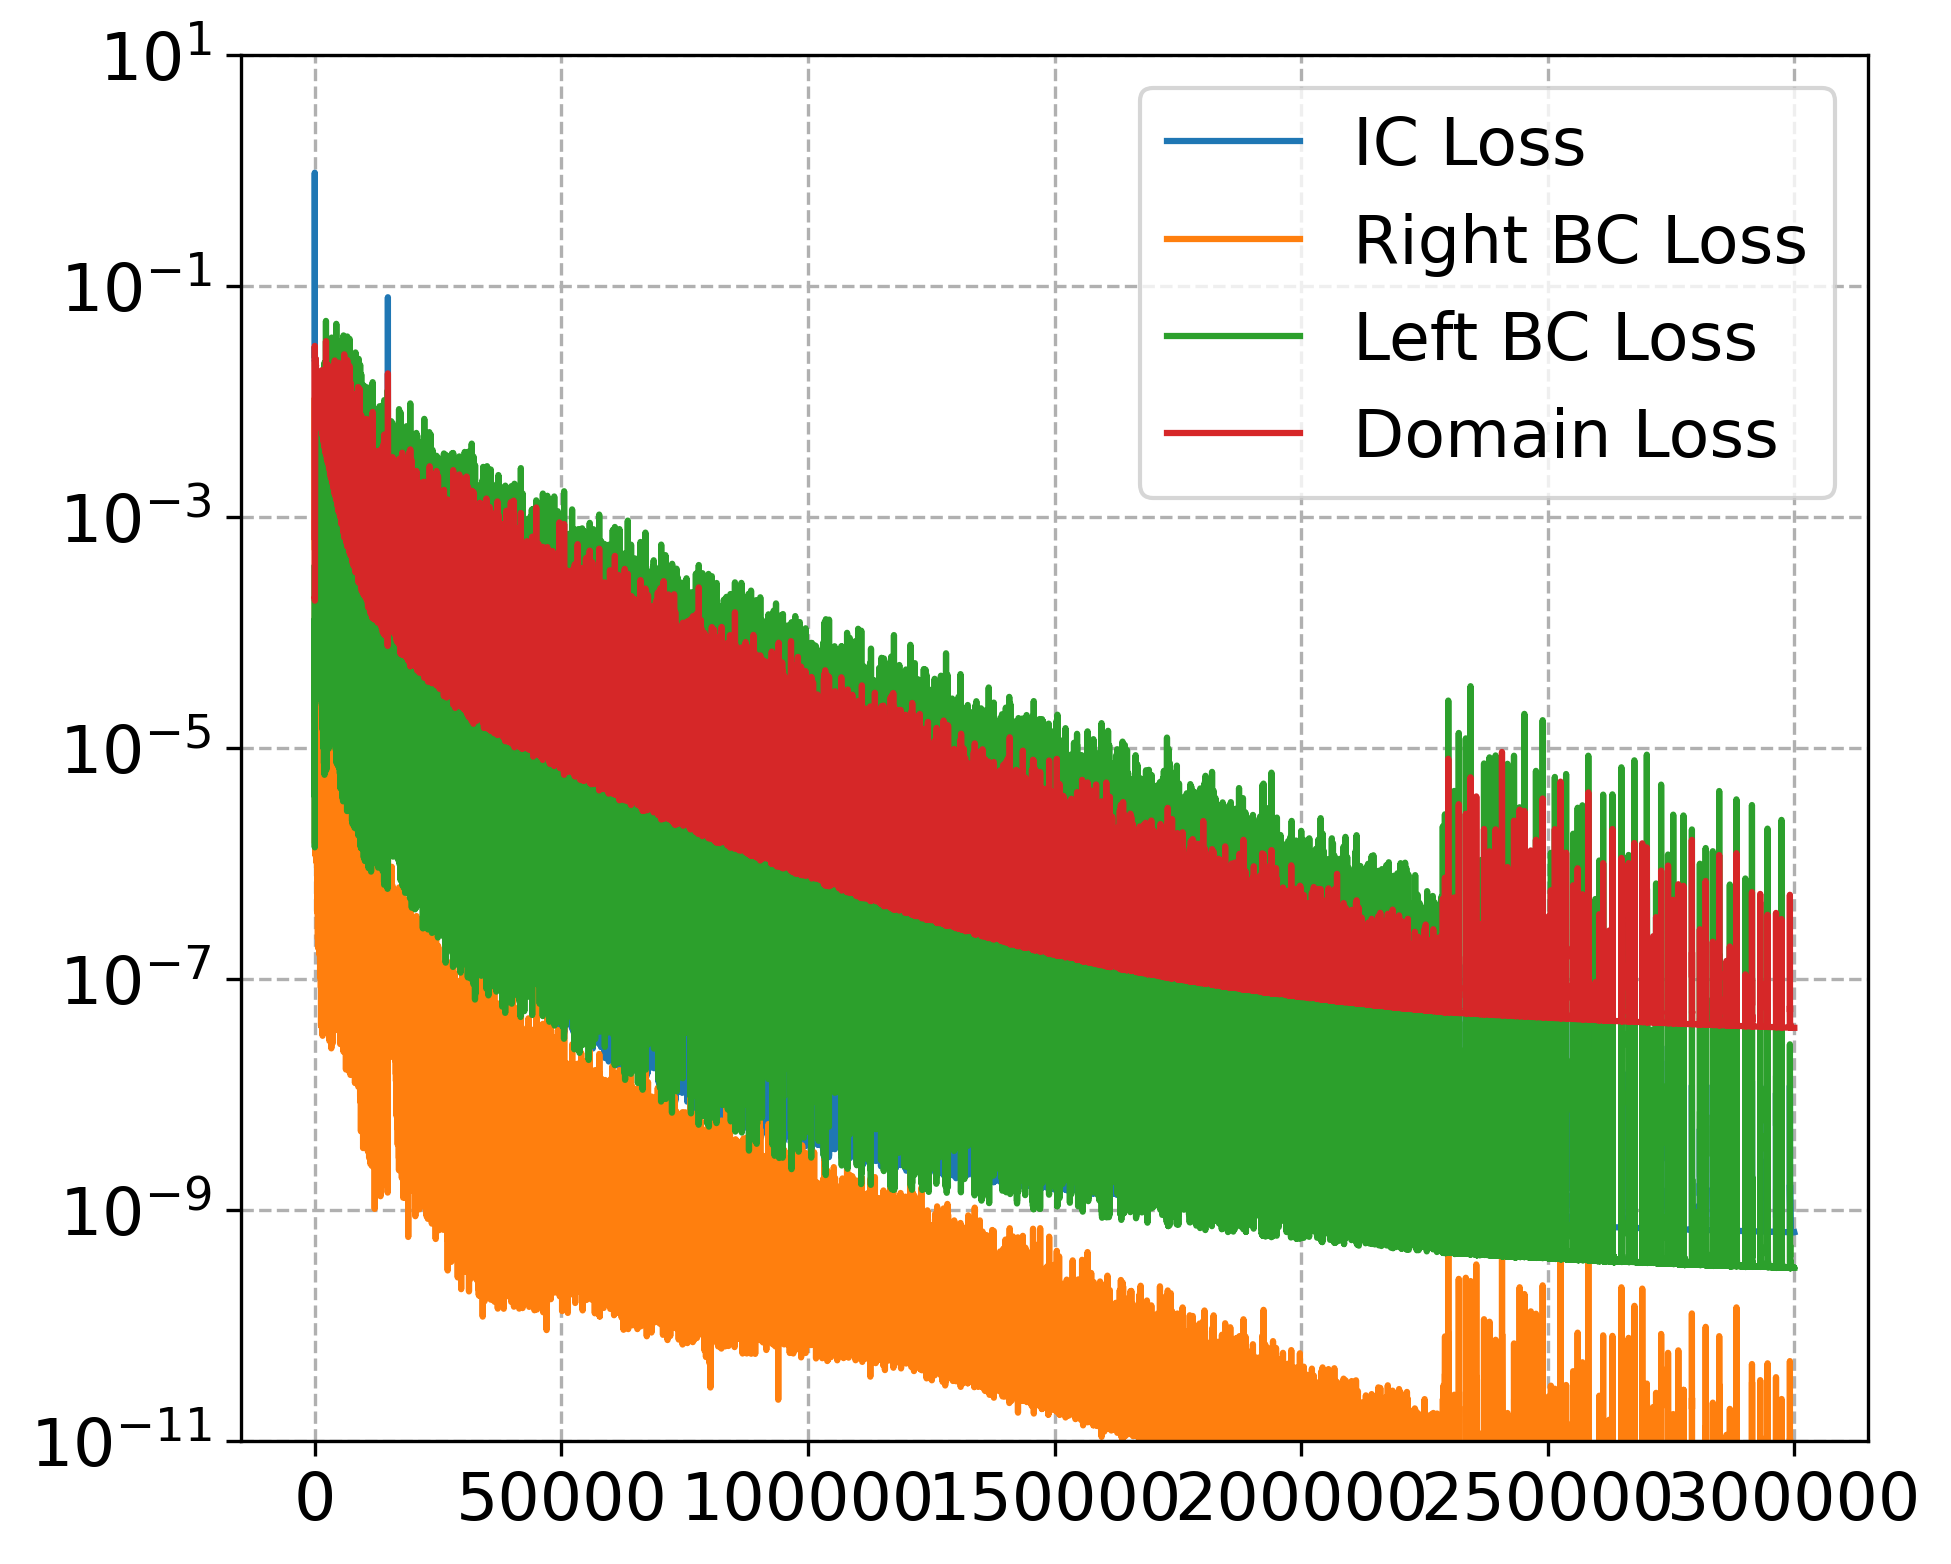
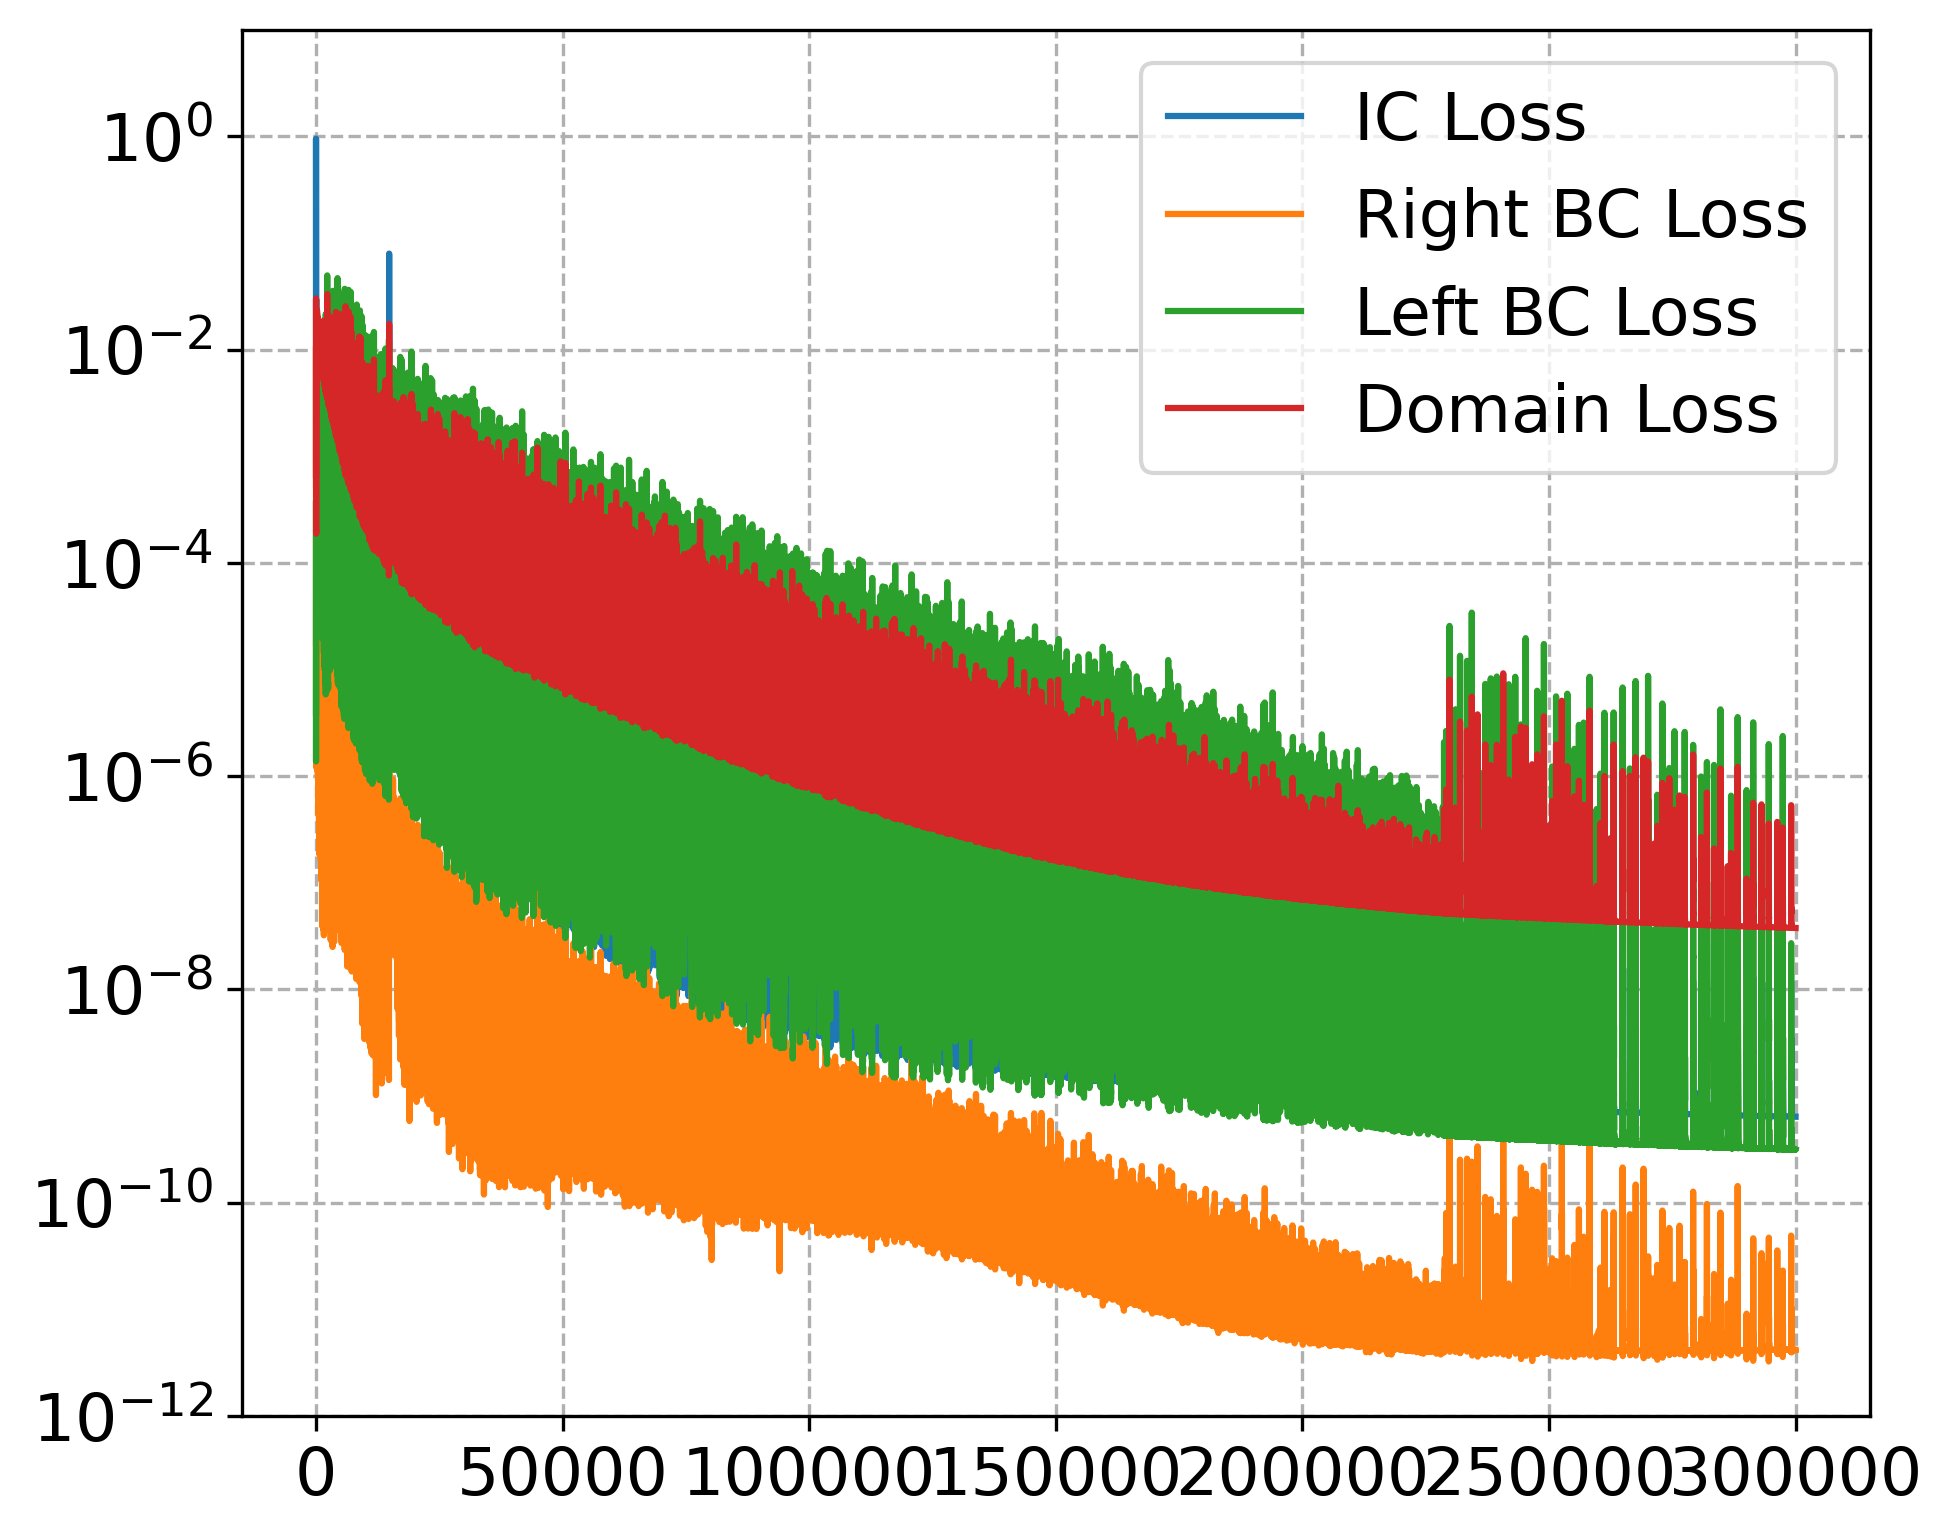
256_7: GELU 5000 300000

diff --git a/spherical_post_processing.py b/spherical_post_processing.py
@@ -123,7 +123,7 @@ else:
     raise FileNotFoundError(f"Loss file: '{loss_file}' not found. Ensure it exists and the path is correct.")
 
 # Loss Plot
-loss_y_min = 1e-11  # Adjust as necessary based on the expected minimum loss value
+loss_y_min = 1e-12  # Adjust as necessary based on the expected minimum loss value
 loss_y_max = 1e1  # Adjust as necessary based on the expected maximum loss value
 fig = plt.figure(figsize=(7,6))
 # Fontsize of everything inside the plot
